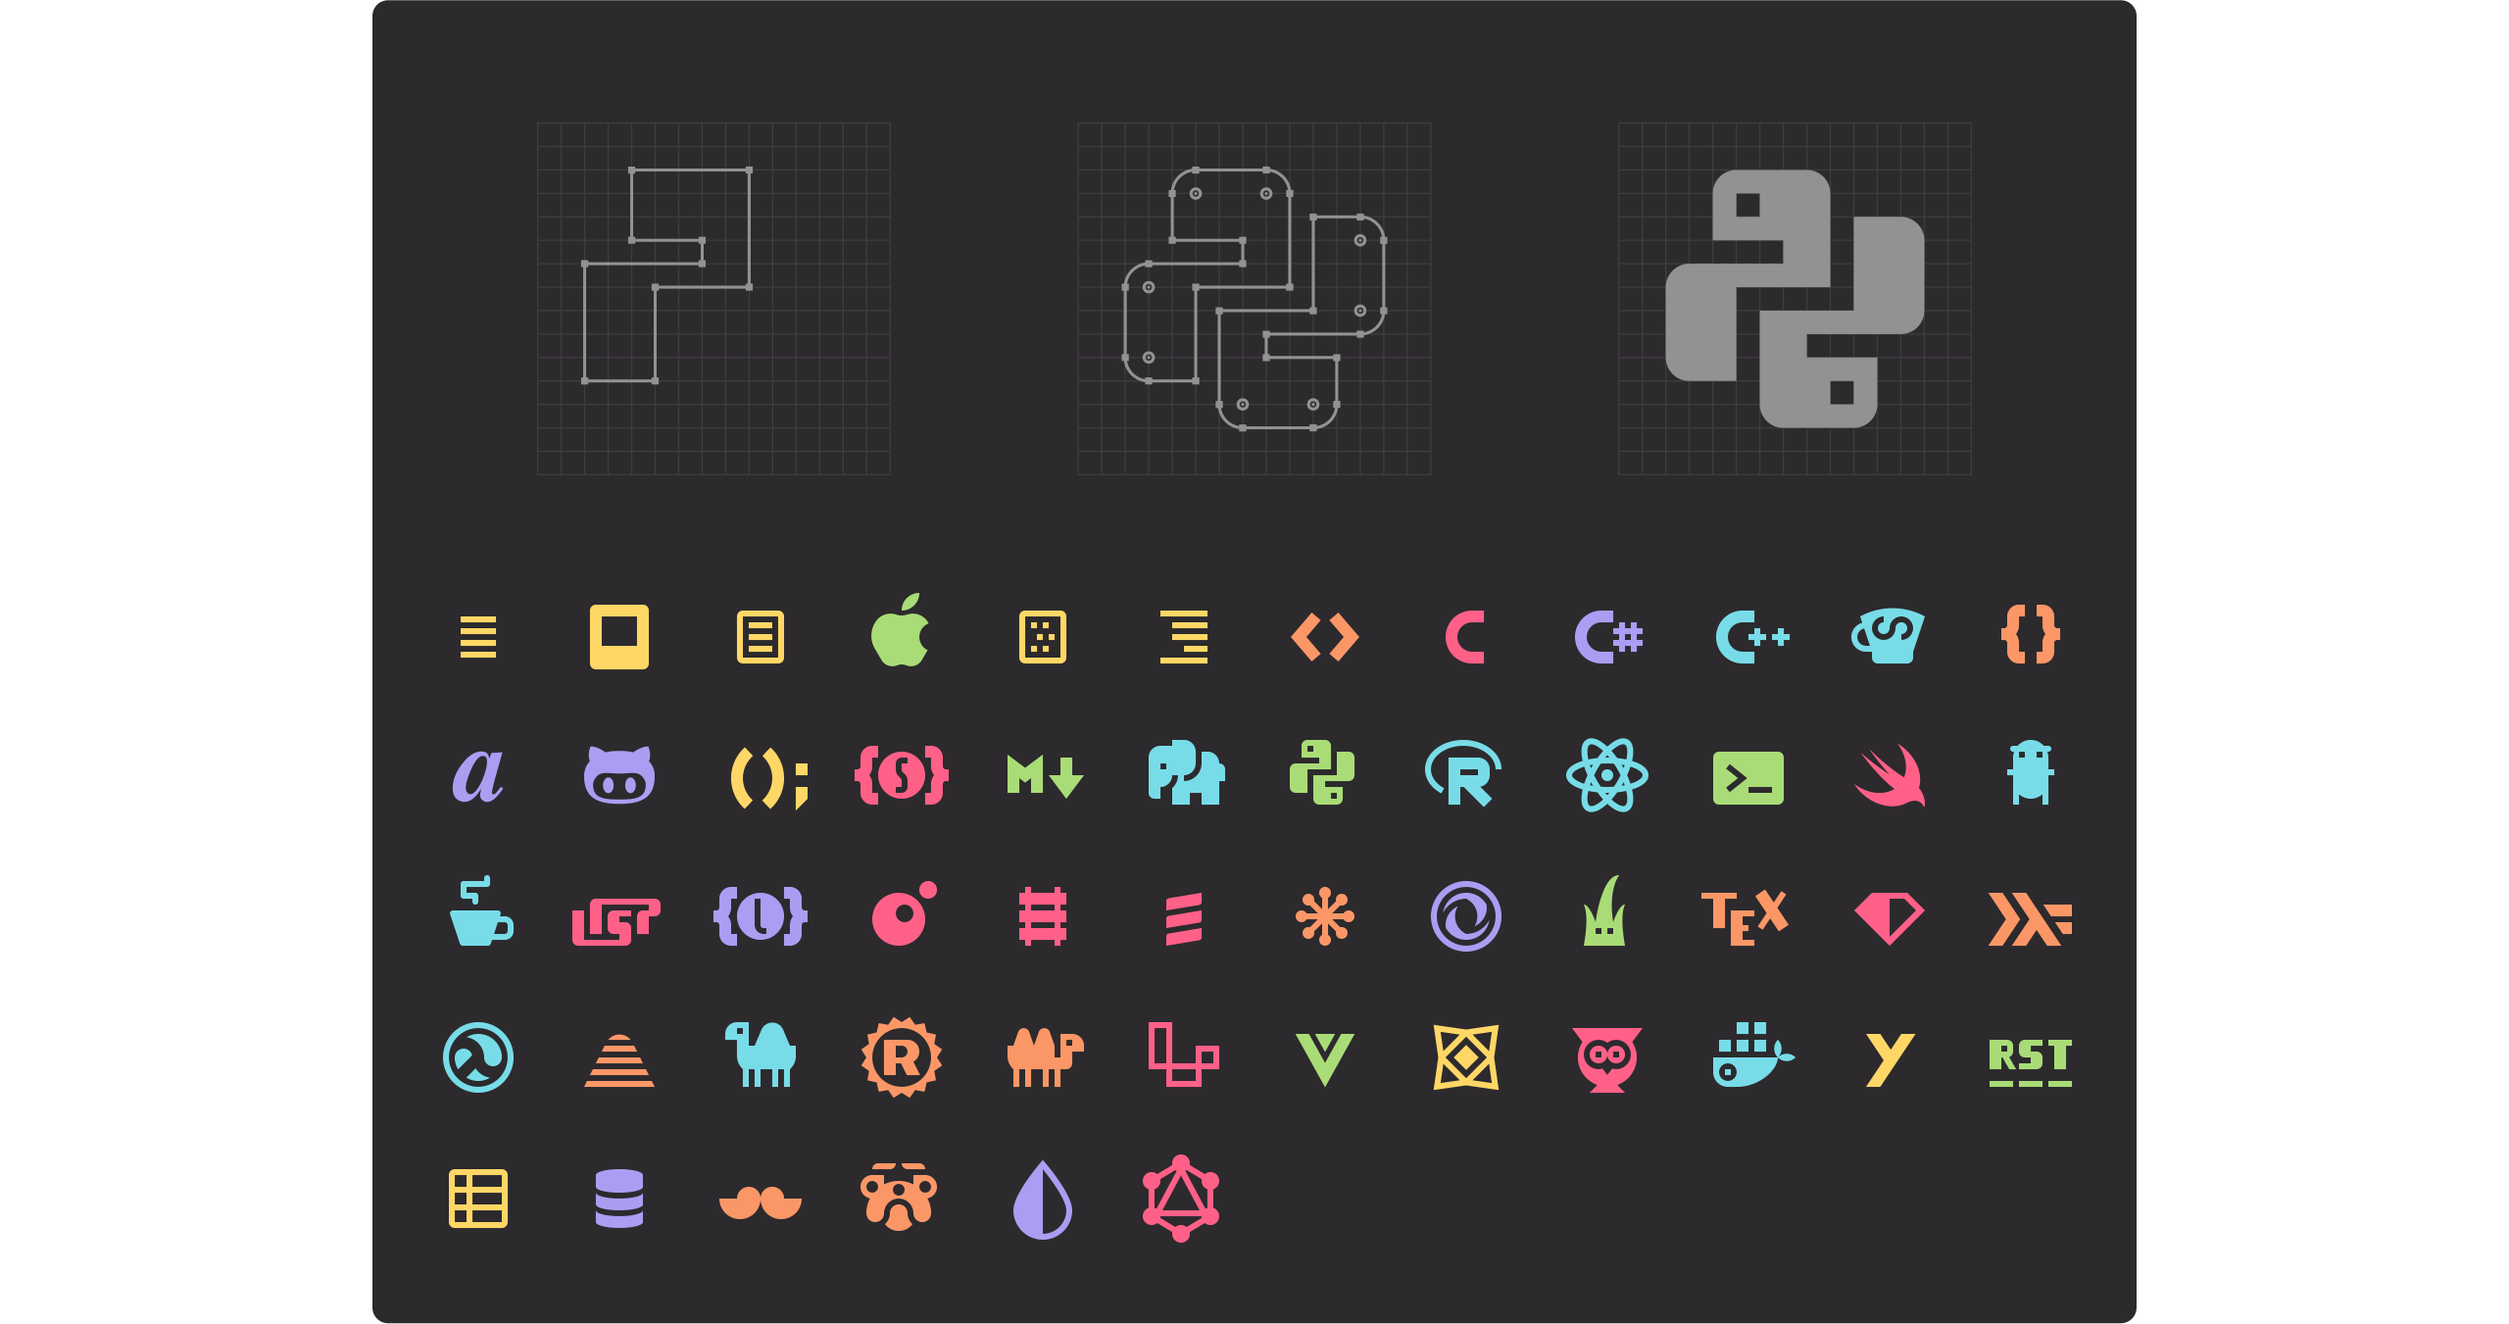
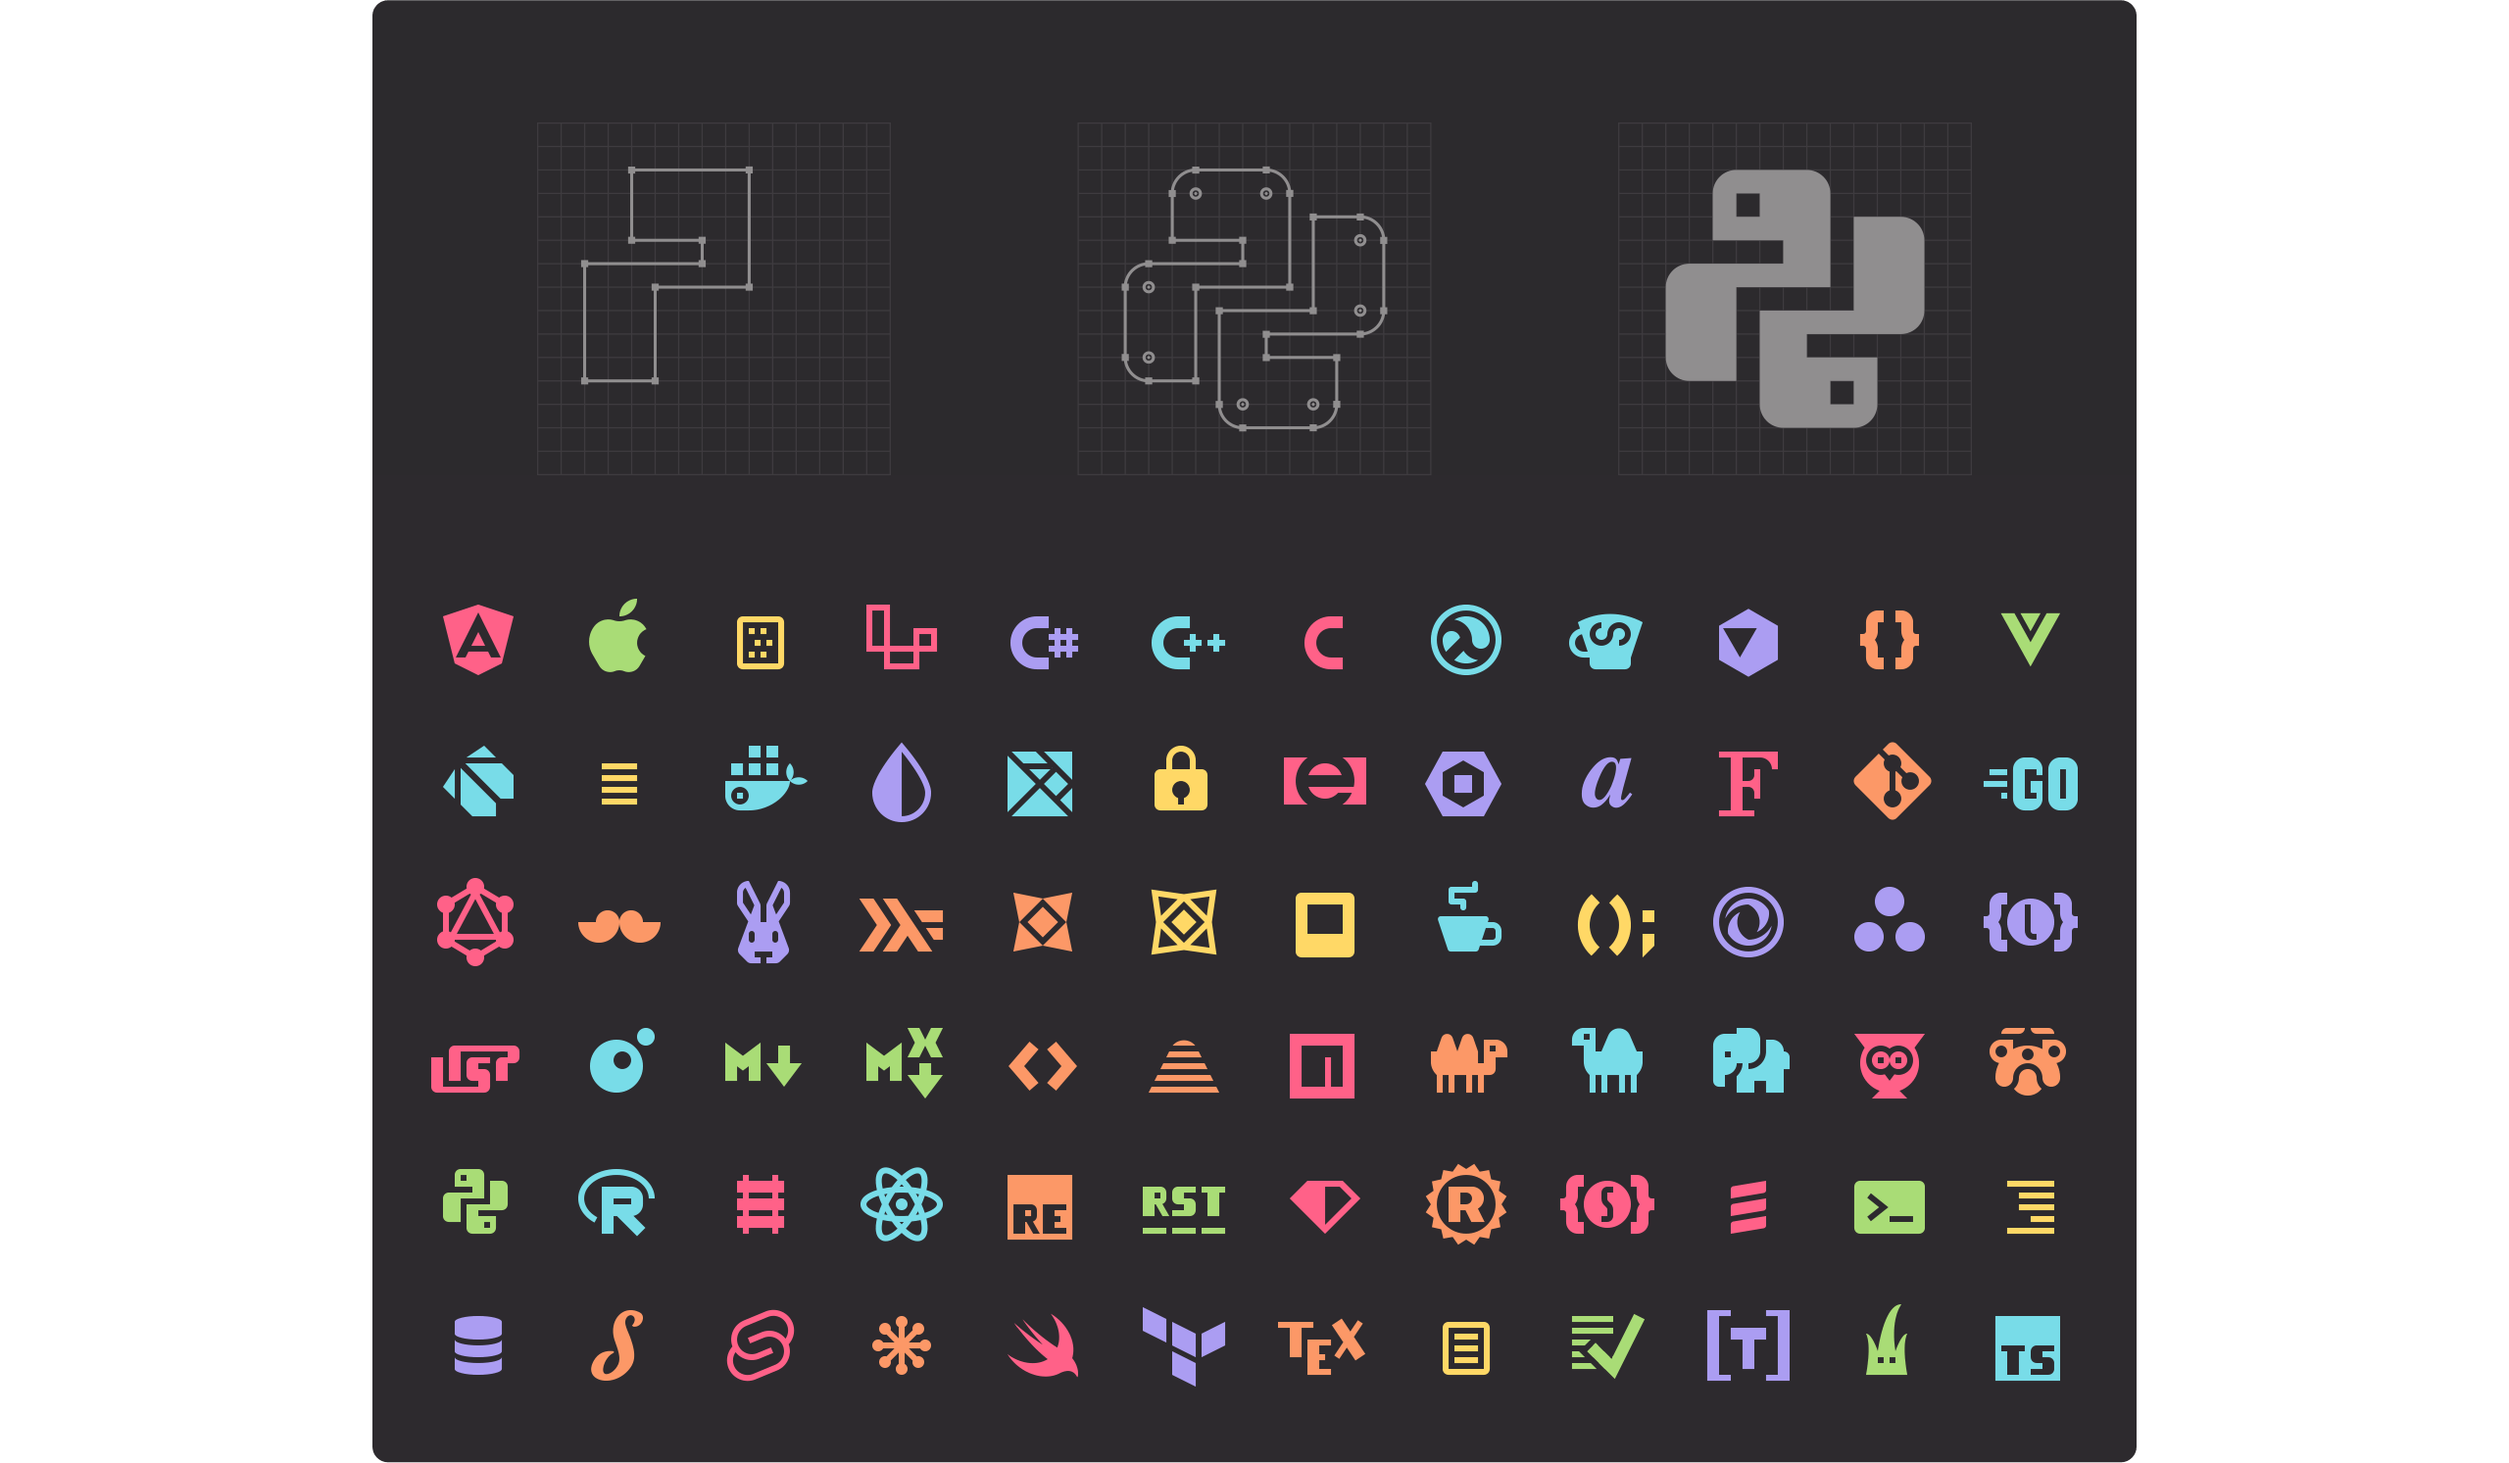
1.2.2

diff --git a/CHANGELOG.md b/CHANGELOG.md
@@ -1,5 +1,14 @@
 # Monokai Pro for Visual Studio Code Changelog
 
+## 1.2.2 (22-12-23)
+
+- [new] inlay hints colors
+- [new] astro icon
+- [new] mdx icon
+- [fix] typescript color improvements
+- [fix] java import color fix
+- [fix] various color fixes
+
 ## 1.2.1 (03-05-23)
 
 - [new] profile badge color
